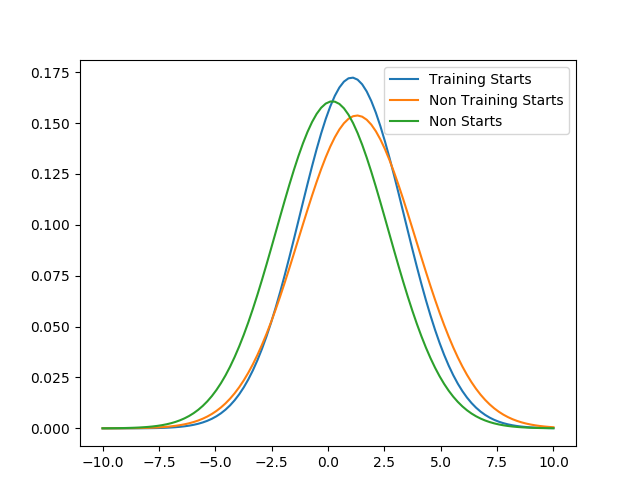
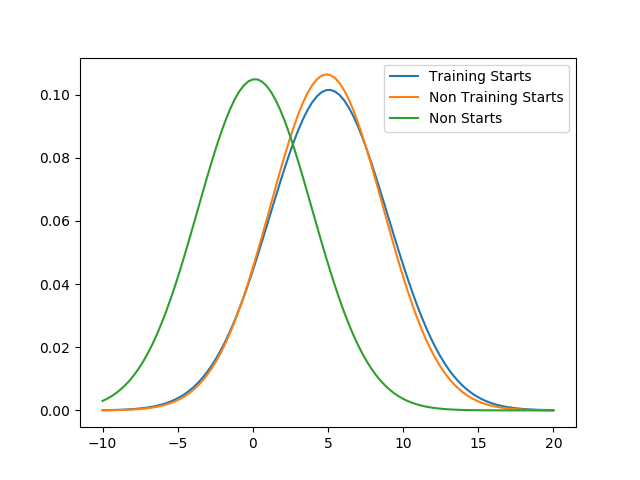
done, pretty sure this time

diff --git a/readGenes.py b/readGenes.py
@@ -163,7 +163,7 @@ def scoreString(M4,stringList):
     score = 0.0
     geneNum = 0
     # loop through the strings
-    for h in stringList[:10]:
+    for h in stringList:
         
         # convert string to list of chars
         clist = list(h)
@@ -227,7 +227,7 @@ def list2File(fname,data):
 
 def plotG(mu,sd,labs):
     # plot the mu,sd
-    x = np.linspace(-10, 10, 100)
+    x = np.linspace(-10, 20, 100)
     fig = plt.figure()
     ax = plt.subplot(111)
     for i in range(3):
@@ -260,13 +260,16 @@ def Driver():
     
     mu = [np.mean(sttScore),np.mean(stOpScore),np.mean(nonStScore)]
     sd = [np.std(sttScore),np.std(stOpScore),np.std(nonStScore)]
+    print(mu)
+    print(sd)
     labs = ['Training Starts', 'Non Training Starts','Non Starts']
     plotG(mu,sd,labs)
 
     hiValCodon = findMaxScores(M4)
+    print(hiValCodon[:5])
 
     # this resulted in (29,33,45,36,22)
-    hiVals = [29,33,45,36,22]
+    hiVals = [x[2] for x in hiValCodon[:5]]
     M5 = makeImportant(M4,hiVals)
 
     sttSc2 = np.array(scoreString(M5,stTrain))
@@ -275,6 +278,8 @@ def Driver():
     
     mu2 = [np.mean(sttSc2),np.mean(stOpSc2),np.mean(nonStSc2)]
     sd2 = [np.std(sttSc2),np.std(stOpSc2),np.std(nonStSc2)]
+    print(mu2)
+    print(sd2)
     labs = ['Training Starts', 'Non Training Starts','Non Starts']
     plotG(mu2,sd2,labs)
 
